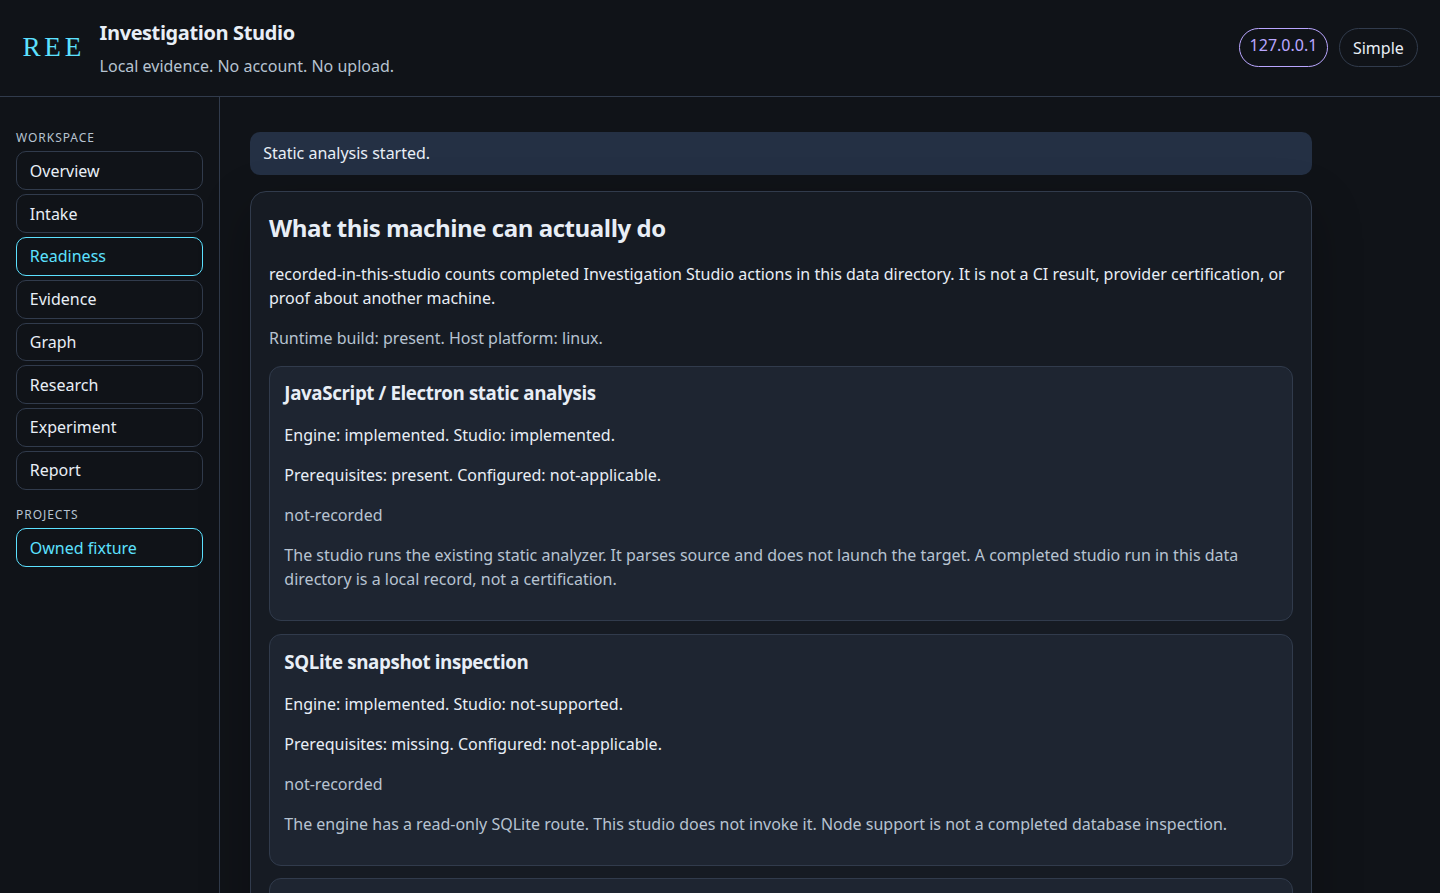
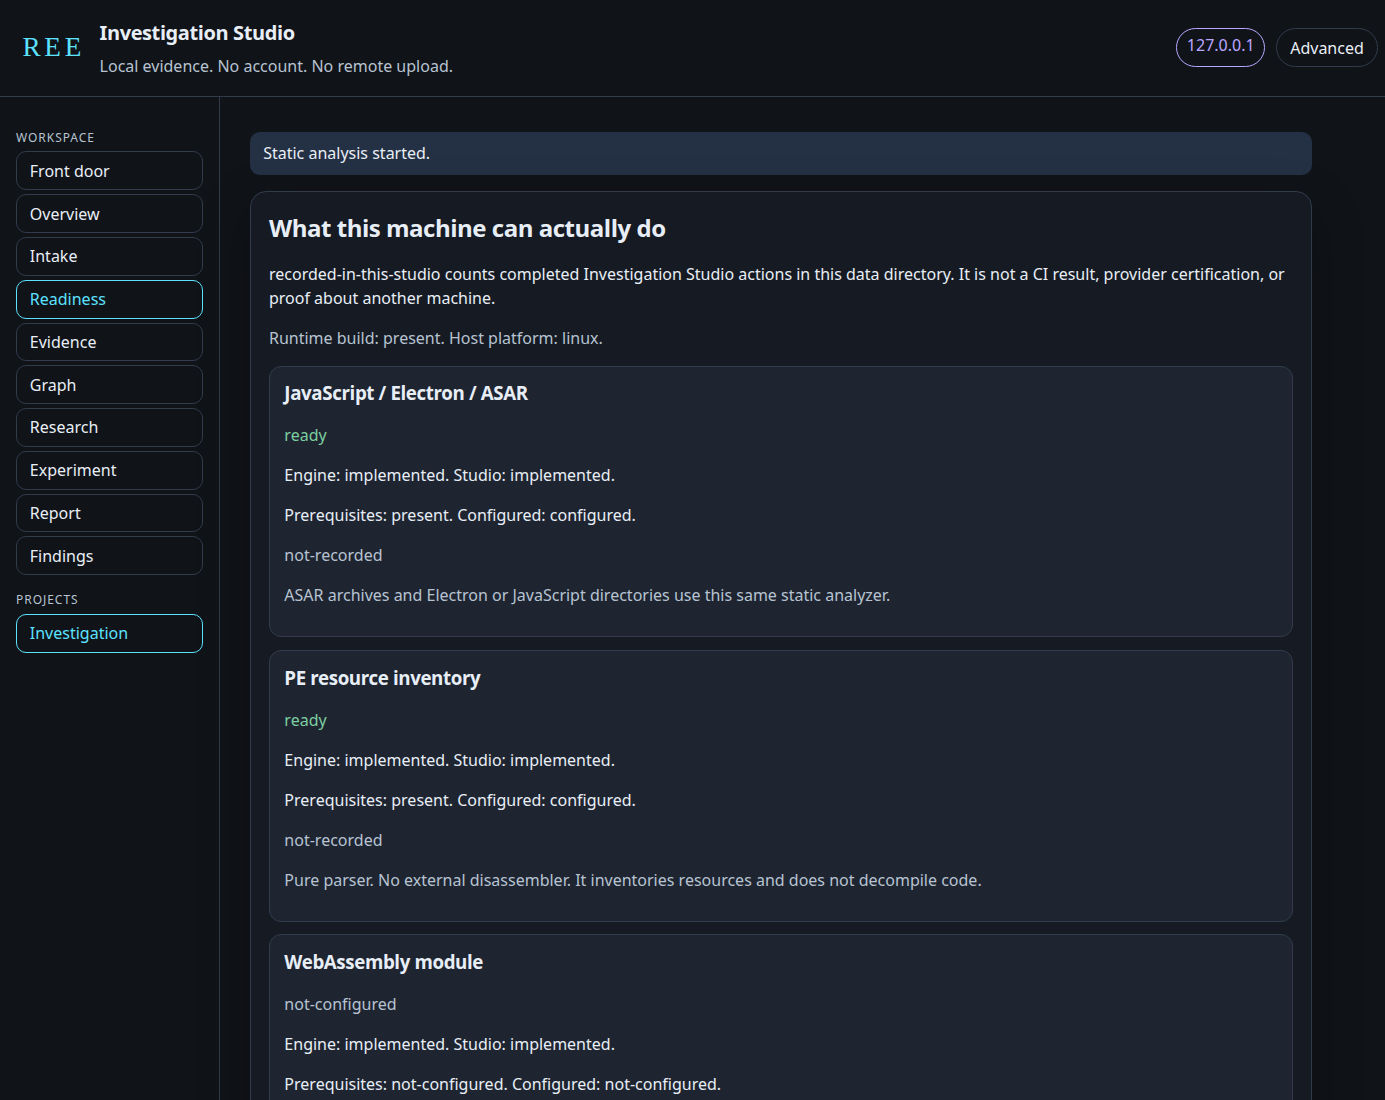
docs(ree): show the live front door and the honest support matrix
The README now leads with the banner, badges, feature grid, and shots
from the running studio: the drop zone, an unfetched link plan, the
carrier.hex classification, and the Evidence-linked findings. Readiness
matches this host. The old welcome form is no longer the entry.

diff --git a/README.md b/README.md
@@ -1,5 +1,7 @@
 <div align="center">
 
+<img src="docs/assets/ree-banner.svg" alt="REE banner. Graphite field, cyan and violet instrument marks, and the line Preserve the intelligence. Expand the possibilities." width="1200" />
+
 # REE
 
 ### Reverse Engineering Everything
@@ -7,10 +9,11 @@
 **Preserve the intelligence. Expand the possibilities.**
 
 A local-first, Mac-first investigation studio on top of the REA analysis engine.
-Projects, evidence, and experiments stay on your machine.
+Projects, evidence, and fetches stay on your machine.
 
 [![CI](https://github.com/gryszzz/reverse-engineer-everything/actions/workflows/ci.yml/badge.svg?branch=main)](https://github.com/gryszzz/reverse-engineer-everything/actions/workflows/ci.yml)
 [![macOS smoke](https://github.com/gryszzz/reverse-engineer-everything/actions/workflows/rel-macos-smoke.yml/badge.svg?branch=main)](https://github.com/gryszzz/reverse-engineer-everything/actions/workflows/rel-macos-smoke.yml)
+[![Platform](https://img.shields.io/badge/platform-macOS%20first%20%C2%B7%20local-5ce1ff?style=flat-square)](rel/MAC_SETUP.md)
 [![Node.js pinned version](https://img.shields.io/badge/Node.js-24.18.0-339933?style=flat-square&logo=nodedotjs&logoColor=white)](.nvmrc)
 [![License: MIT](https://img.shields.io/badge/license-MIT-56e0bd?style=flat-square)](LICENSE)
 
@@ -40,17 +43,38 @@ The picture is a live studio session in this checkout. It analyzed the owned fix
 | Run the same static route and the owned demo from the terminal                         | `ree.mjs`                                                      |
 | Use the full engine, including providers the studio does not launch                    | `node scripts/rea.mjs` and the project MCP server              |
 
-The studio binds to `127.0.0.1` only. It has no account and does not upload Evidence. Research stages, when you turn them on, restate retained tool results. Remote model calls are refused.
+The studio binds to `127.0.0.1` only. It has no account and does not upload Evidence. A link is fetched only after you approve the URLs, the size limit, and the destination. Research stages, when you turn them on, restate retained tool results. Remote model calls are refused.
+
+The front door says **Drop a file, folder, or paste a link**.
+
+| Front door            | What you do             | What the studio does                                                                                                                   |
+| --------------------- | ----------------------- | -------------------------------------------------------------------------------------------------------------------------------------- |
+| Drop a file or folder | Drop it on the page     | Copies it into the studio data directory, classifies it, and picks a ready route                                                       |
+| Paste a link          | Approve the listed URLs | Shallow-clones a public GitHub or GitLab repo, downloads an https file, or fetches an npm tarball or a page and its referenced scripts |
+| Authorize             | Tick the box            | Runs that ready route. The download is not executed                                                                                    |
+| Findings              | Read the summary        | Every sentence points at saved Evidence. The graph shows stored relationships only                                                     |
+
+<img src="docs/assets/studio/front-door.gif" alt="Live front door. The empty drop zone, then a GitHub fetch plan that has not used the network, then carrier.hex classified as EVM bytecode, then Findings quoting the saved Evidence id and the unknown that the bytecode was not executed." width="1000" />
+
+That animation is the live page on this checkout. The plan frame lists `https://github.com/gryszzz/reverse-engineer-everything` and does not fetch it. The drop is the owned file `experiments/ree-fixtures/carrier.hex`. The findings frame is the EVM route after the authorization tick. The bytecode was not executed.
+
+Simple Mode is that front door and the findings. Advanced Mode keeps readiness, the exact command, Evidence search, research, the owned probe, and the report.
 
 ## Investigation Studio
 
 The studio is a loopback page served from this checkout. Simple Mode is plain language. Advanced Mode adds Evidence ids, readiness fields, and the exact analyzer command.
 
-These shots are from one live session against `experiments/rel-first-lab` after an authorized static run. The Evidence id in the pictures is `ev_45d365f3b6f0be5b8831504b9bf5f268826bf0973e47a11ad01e1bd65587d58b`. That run recorded 49 graph nodes and 67 edges. Nothing in the pictures was drawn in by hand.
+The front door, fetch plan, drop, findings, and readiness shots are a later live session on this Linux host. The plan did not fetch. The drop and findings used `experiments/ree-fixtures/carrier.hex`. Overview, intake, Evidence, the graph, experiment, research, and report are an earlier live session against `experiments/rel-first-lab`. That run's Evidence id is `ev_45d365f3b6f0be5b8831504b9bf5f268826bf0973e47a11ad01e1bd65587d58b`, with 49 graph nodes and 67 edges. Nothing in the pictures was drawn in by hand.
 
-### Welcome
+### Front door
 
-<img src="docs/assets/studio/welcome.png" alt="Empty Investigation Studio asking for a project name and the question Which files import which, before any analysis." width="1200" />
+<img src="docs/assets/studio/door.png" alt="Investigation Studio front door. The heading is Drop a file, folder, or paste a link. Status is idle. No fetch and no analysis is running." width="1200" />
+
+<img src="docs/assets/studio/plan.png" alt="Fetch plan for https://github.com/gryszzz/reverse-engineer-everything. It lists a shallow git clone, a 33554432 byte limit, a 60000 ms limit, and says no network request has been made." width="1200" />
+
+<img src="docs/assets/studio/drop.png" alt="Owned carrier.hex dropped on the front door and classified as EVM bytecode, with EVM bytecode interface ready. No analysis has run." width="1200" />
+
+<img src="docs/assets/studio/findings.png" alt="Findings after the authorized EVM route on carrier.hex. The summary quotes the saved Evidence id and says the bytecode was not executed." width="1200" />
 
 ### Overview
 
@@ -64,9 +88,9 @@ Classification reads a directory listing or the first bytes of a file. It does n
 
 ### Readiness
 
-<img src="docs/assets/studio/readiness.png" alt="Readiness view. JavaScript static analysis is implemented in the studio and recorded-in-this-studio. SQLite and Ghidra are not-supported in the studio and not-recorded." width="1200" />
+<img src="docs/assets/studio/readiness.png" alt="Top of readiness on this Linux host. JavaScript static analysis, PE resources, EVM bytecode, and objdump file headers are ready and not-recorded. WebAssembly is not-configured. apktool is missing-tool. No route is recorded-in-this-studio." width="1200" />
 
-`recorded-in-this-studio` means a completed action in this data directory. It is not a CI result and not a statement about another Mac. A command on `PATH` is not treated as configured or verified. The full route list is the [support matrix](#support-matrix).
+`recorded-in-this-studio` means a completed action in this data directory. It is not a CI result and not a statement about another Mac. A command on `PATH` is not treated as configured or verified. The picture is the top of the page. The full route list, including Mach-O, Ghidra, Rizin, and radare2, is the [support matrix](#support-matrix).
 
 ### Evidence
 
@@ -180,21 +204,28 @@ Status words mean only this:
 | **Needs external tool** | The engine has the route. You supply the tool and use the REA CLI or MCP. The studio does not launch it. |
 | **Unsupported**         | The studio refuses it, or it has no such action.                                                         |
 
-| Route                                                          | Engine              | Studio                                 | Status                  |
-| -------------------------------------------------------------- | ------------------- | -------------------------------------- | ----------------------- |
-| JavaScript / Electron static analysis                          | Implemented         | Runs it after a local build            | **Implemented**         |
-| Evidence search and bounded relationship graph                 | Implemented         | Uses saved Evidence                    | **Implemented**         |
-| Project save / resume, intake, readiness, report, summary diff | REE product         | Implemented                            | **Implemented**         |
-| Owned `experiments/rel-first-lab` probe                        | Not an engine route | One approved command, query `bridge`   | **Experimental**        |
-| Finite hypothesis planner                                      | Implemented         | Preview with no observations           | **Experimental**        |
-| Local research stages                                          | Not an engine route | Off by default; restates saved results | **Experimental**        |
-| Remote model commentary                                        | None                | Refused, even if a key is stored       | **Unsupported**         |
-| SQLite snapshots                                               | Implemented         | Not invoked                            | **Needs external tool** |
-| Ghidra, IDA, Hopper                                            | Implemented         | Not invoked                            | **Needs external tool** |
-| JADX, Apktool, JEB                                             | Implemented         | Not invoked                            | **Needs external tool** |
-| Firmware, WebAssembly, packet capture                          | Implemented         | Not invoked                            | **Needs external tool** |
-| Browser / Electron runtime observation                         | Implemented         | Not invoked                            | **Needs external tool** |
-| REA process capture                                            | Implemented         | Not invoked                            | **Unsupported**         |
+| Route                                                                                      | Engine                                                                        | Studio                                                                                                                                | Status                  |
+| ------------------------------------------------------------------------------------------ | ----------------------------------------------------------------------------- | ------------------------------------------------------------------------------------------------------------------------------------- | ----------------------- |
+| JavaScript / Electron / ASAR static analysis                                               | Implemented                                                                   | Runs the existing analyze route when it is ready                                                                                      | **Implemented**         |
+| Drop a file or folder                                                                      | REE product                                                                   | Local copy, then the ready route                                                                                                      | **Implemented**         |
+| Approved https link, shallow GitHub/GitLab clone, npm tarball, page and referenced scripts | REE product                                                                   | Opt-in. Size and time limits. URL and sha256 kept. Not executed                                                                       | **Implemented**         |
+| PE resource inventory                                                                      | Implemented                                                                   | `inspect-pe-resources` when the file is a PE                                                                                          | **Implemented**         |
+| EVM bytecode interface                                                                     | Implemented                                                                   | `evmole` in this checkout                                                                                                             | **Implemented**         |
+| objdump file headers                                                                       | Implemented                                                                   | Runs when `objdump` is on `PATH`                                                                                                      | **Implemented**         |
+| Evidence search and bounded relationship graph                                             | Implemented                                                                   | Uses saved Evidence                                                                                                                   | **Implemented**         |
+| Project save / resume, intake, readiness, report, summary diff                             | REE product                                                                   | Implemented                                                                                                                           | **Implemented**         |
+| WebAssembly                                                                                | Implemented                                                                   | Needs absolute `REA_WABT_BIN_DIRECTORY` for WABT 1.0.42. A `wabt` binary on `PATH` is not configured                                  | **Needs configuration** |
+| ELF layout                                                                                 | Implemented                                                                   | Needs absolute `REA_PWNTOOLS_PYTHON`. REE does not install Python                                                                     | **Needs configuration** |
+| Android JADX                                                                               | Implemented                                                                   | Needs absolute `REA_JADX_MCP_JAR`. A Homebrew `jadx` is not that jar                                                                  | **Needs configuration** |
+| Apktool                                                                                    | Implemented                                                                   | `apktool` on `PATH` or `REA_APKTOOL_COMMAND`. On macOS the studio can run `brew install apktool` only after the exact argv and digest | **Needs external tool** |
+| Mach-O overview                                                                            | Implemented                                                                   | `otool` and `lipo` on macOS                                                                                                           | **Needs macOS**         |
+| Ghidra overview                                                                            | Implemented                                                                   | `inspect --provider ghidra` only when `GHIDRA_INSTALL_DIR` is set. It does not modify the file                                        | **Needs configuration** |
+| Owned `experiments/rel-first-lab` probe                                                    | Not an engine route                                                           | One approved command, query `bridge`                                                                                                  | **Experimental**        |
+| Finite hypothesis planner                                                                  | Implemented                                                                   | Preview with no observations                                                                                                          | **Experimental**        |
+| Local research stages                                                                      | Not an engine route                                                           | Off by default; restates saved results                                                                                                | **Experimental**        |
+| Remote model commentary                                                                    | None                                                                          | Refused, even if a key is stored                                                                                                      | **Unsupported**         |
+| IDA, Hopper, Rizin, radare2, JEB                                                           | IDA, Hopper, and Rizin exist as engine adapters. There is no radare2 provider | The studio does not launch them                                                                                                       | **Unsupported**         |
+| SQLite, firmware, packet capture, browser runtime, process capture                         | Implemented                                                                   | Not invoked                                                                                                                           | **Needs external tool** |
 
 SQLite inspection wants Node 24.15+ or 26+. A missing `ghidra` or `hopper` command does not prove the Mac app is absent, and a command on `PATH` does not prove a decompilation. Process capture is an engine workflow with its own host and authority rules. The studio experiment does not call it.
 
@@ -210,7 +241,8 @@ REE does not silently substitute one native engine for another.
 
 ## Safety and authorization
 
-- The studio and `REE.app` listen on `127.0.0.1` only. Other hosts and other origins are refused. There is no account and no upload.
+- The studio and `REE.app` listen on `127.0.0.1` only. Other hosts and other origins are refused. There is no account and no remote upload.
+- A pasted link shows the URL, byte limit, time limit, and destination before anything is fetched. `approved` must be boolean true and the digest must match. `http`, credentials, and non-public addresses are refused. The bytes are stored and hashed. They are not executed.
 - Static analysis starts only after you set authorization. The child process is the public `node ree.mjs analyze --authorized` command. One run at a time, three-minute timeout, then SIGTERM and SIGKILL.
 - The owned probe lists its argv, timeout, and file hashes. A digest mismatch is rejected. `approved` must be boolean true. Any other directory is refused. Analysis authorization does not approve the probe.
 - Runtime capture stays on the experiment record. It is not merged into static Evidence.
@@ -258,7 +290,8 @@ The finite planner ranks caller-supplied predictions. It does not invent hypothe
 ## Limitations
 
 - There is no separate published REE package, updater, or notarized app.
-- The studio does not launch Ghidra, IDA, Hopper, JADX, Apktool, JEB, firmware tools, browser debuggers, packet capture, SQLite, or `capture-process`.
+- Ghidra runs only as `inspect --provider ghidra` when `GHIDRA_INSTALL_DIR` is already set. IDA, Hopper, Rizin, radare2, and JEB are not launched. Firmware tools, browser debuggers, packet capture, SQLite, and `capture-process` are not launched.
+- WebAssembly, ELF layout, and JADX stay not-configured until the documented absolute tool path is set. The studio does not install WABT, Python, JADX, or Ghidra.
 - A static graph edge is not an observed execution.
 - The probe cannot target anything except `experiments/rel-first-lab`, and the command it runs is the `bridge` query.
 - Research has no model cost because no model is called.

diff --git a/docs/investigation-studio.md b/docs/investigation-studio.md
@@ -43,17 +43,14 @@ npm run build:cached
 node ree.mjs studio --open
 ```
 
-In the studio:
+In the studio, Simple Mode opens on one front door: **Drop a file, folder, or paste a link**.
 
-1. Create a project and keep the question, for example `Which files import which?`
-2. Choose **Use the owned JavaScript fixture**. This classifies `experiments/rel-first-lab` and does not analyze it yet.
-3. Check the authorization box. The run reads source files and does not launch the fixture.
-4. Choose **Run static analysis**.
-5. Open **Evidence** and search `search.mjs` or `cli.mjs`.
-6. Open **Graph**. Inferred edges are static relationships. They are not captured executions. Select one and open the recorded source line.
-7. Open **Report** to export a Markdown projection of the saved project.
+1. Drop a file or folder. The studio copies it into the data directory and classifies it. Nothing is analyzed yet.
+2. Or paste a link and choose **Show what will be fetched**. That lists the URL, byte limit, time limit, and destination. It does not use the network. **Fetch and analyze** runs only after you tick authorization and the digest still matches. The saved bytes are not executed.
+3. Tick the authorization box. The studio picks a ready route. If none is ready, it says so and does not invent a run.
+4. When the run finishes, Findings shows one plain-English sentence per saved fact. Each sentence names the Evidence id and path. Unknowns stay listed. The map shows stored relationships only.
 
-Simple Mode uses plain language. Advanced Mode shows Evidence ids, readiness fields, and the exact `node ree.mjs analyze` command.
+Advanced Mode keeps intake, readiness, the exact command, Evidence search, the graph, research, the owned probe, and the report. From there, **Use the owned JavaScript fixture** classifies `experiments/rel-first-lab` without analyzing it. A static run reads source and does not launch the fixture. Search Evidence for `search.mjs` or `cli.mjs`. Inferred graph edges are static relationships, not captured executions.
 
 The same analysis from the terminal:
 
@@ -77,6 +74,8 @@ The Readiness view separates four facts for each route:
 | Verified on this host | `recorded-in-this-studio` only after a completed studio action in this data directory |
 
 A missing Ghidra command does not prove the Mac app is absent. A present command does not prove a decompilation succeeded. `not-recorded` is the honest default.
+
+The studio can run the existing engine commands for JavaScript and ASAR, PE resources, EVM bytecode, objdump file headers, WebAssembly, ELF layout, Android JADX, apktool, Mach-O, and a Ghidra overview. A route that is missing its tool is `missing-tool` or `not-configured`. It is not reported as ready. The only install the page can run is `brew install apktool`, and only after the exact argv and digest are approved. WABT, JADX, Python, and Ghidra stay bring-your-own. IDA, Hopper, Rizin, and radare2 are not launched.
 
 ## Experiment, diff, and research
 
